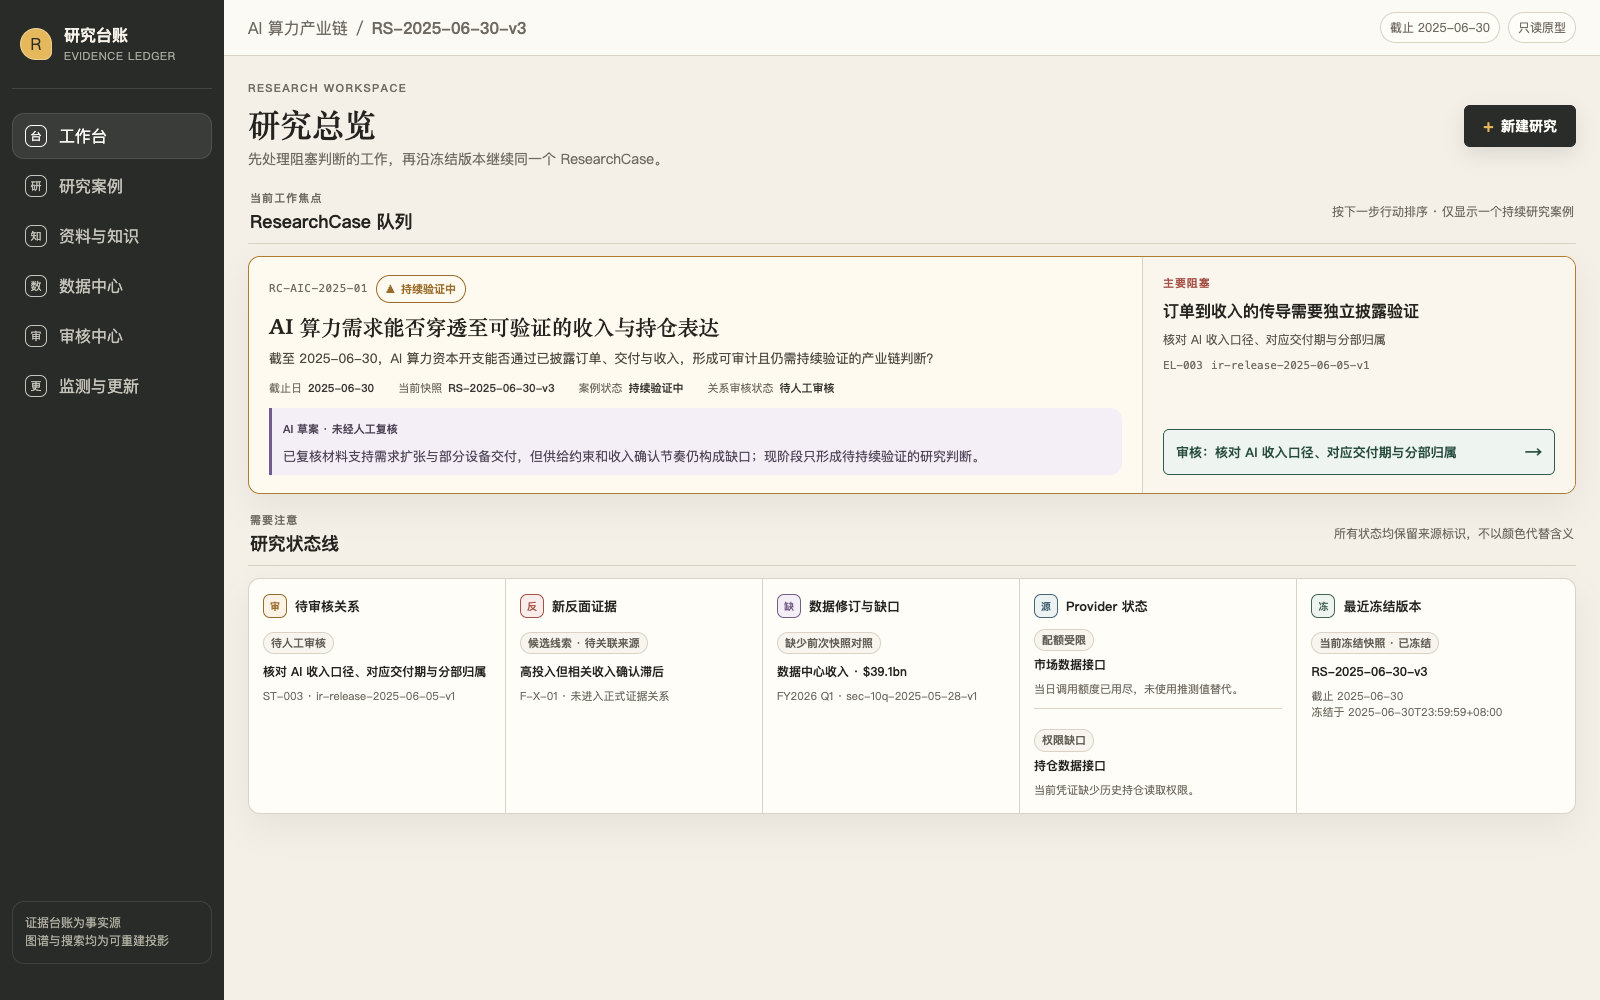
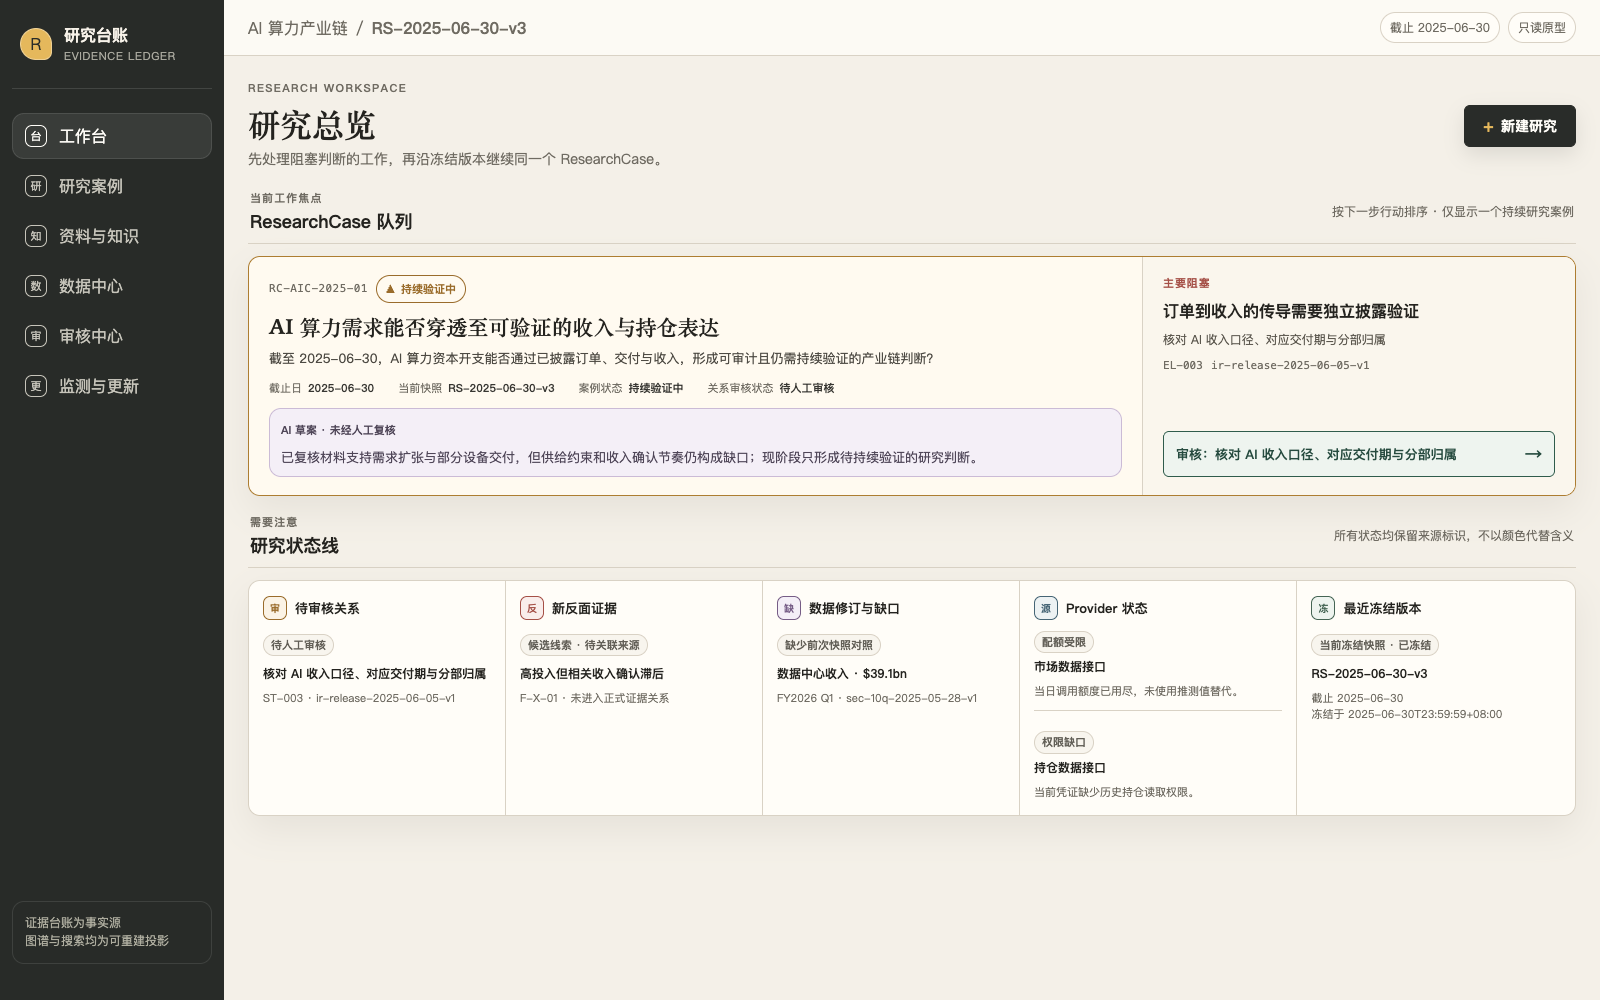
fix: harden mobile navigation and PNG capture

Changed region(s): [[0.1562, 0.403, 1.0, 0.806], [0.7188, 0.434, 0.9688, 0.496], [0.9062, 0.713, 0.9375, 0.744]]

diff --git a/prototype/ui/styles.css b/prototype/ui/styles.css
@@ -16,6 +16,9 @@
   --nav-note: #aead9f;
   --brand-accent: #e5b85c;
   --action-surface: #292c29;
+  --action-hover: #3a3e39;
+  --action-active: #171917;
+  --focus-ring: #765d86;
   --body-strong: #4d4a43;
   --fact-strong: #373632;
   --decision-surface: #faf6ed;
@@ -25,8 +28,11 @@
   --next-action-border: #2f5c4c;
   --next-action-text: #264b3f;
   --next-action-surface: #eef4ef;
+  --next-action-hover: #e2eee6;
+  --next-action-active: #d5e5dc;
   --assessment-text: #4f4658;
   --assessment-surface: #f4eff7;
+  --assessment-border: #cbbbd6;
   --warning-surface: #fbf3e5;
   --contradict-surface: #f9edeb;
   --gap-accent: #765d86;
@@ -187,6 +193,10 @@ a {
   backdrop-filter: blur(10px);
 }
 
+.mobile-nav {
+  display: none;
+}
+
 .breadcrumbs,
 .utility-actions,
 .meta-row,
@@ -291,6 +301,20 @@ a {
   color: var(--brand-accent);
   font-size: 18px;
   line-height: 1;
+}
+
+.primary-action:hover {
+  background: var(--action-hover);
+}
+
+.primary-action:active {
+  background: var(--action-active);
+  transform: translateY(1px);
+}
+
+.primary-action:focus-visible {
+  outline: 3px solid var(--focus-ring);
+  outline-offset: 3px;
 }
 
 .queue-section,
@@ -476,6 +500,20 @@ a {
   font-size: 17px;
 }
 
+.next-action:hover {
+  background: var(--next-action-hover);
+}
+
+.next-action:active {
+  background: var(--next-action-active);
+  transform: translateY(1px);
+}
+
+.next-action:focus-visible {
+  outline: 3px solid var(--focus-ring);
+  outline-offset: 3px;
+}
+
 .paper-card {
   min-width: 0;
   padding: var(--space-5);
@@ -556,8 +594,8 @@ a {
 .assessment {
   margin-top: var(--space-5);
   padding: var(--space-4);
-  border-left: 3px solid var(--state-ai-draft);
-  border-radius: 0 var(--radius-md) var(--radius-md) 0;
+  border: 1px solid var(--assessment-border);
+  border-radius: var(--radius-md);
   color: var(--assessment-text);
   background: var(--assessment-surface);
   line-height: 1.65;
@@ -729,7 +767,7 @@ a {
 @media (max-width: 600px) {
   .app-shell {
     grid-template-columns: minmax(0, 1fr);
-    grid-template-rows: 48px minmax(0, 1fr);
+    grid-template-rows: 48px auto minmax(0, 1fr);
     width: 100%;
   }
 
@@ -740,6 +778,10 @@ a {
   .utility-header,
   .work-area {
     grid-column: 1;
+  }
+
+  .work-area {
+    grid-row: 3;
   }
 
   .utility-header {
@@ -759,6 +801,58 @@ a {
 
   .utility-actions {
     display: none;
+  }
+
+  .mobile-nav {
+    display: block;
+    grid-column: 1;
+    grid-row: 2;
+    min-width: 0;
+    padding: 8px var(--space-4);
+    border-bottom: 1px solid var(--border);
+    background: var(--paper);
+  }
+
+  .mobile-nav summary {
+    padding: 8px 10px;
+    border: 1px solid var(--border);
+    border-radius: var(--radius-sm);
+    color: var(--ink);
+    font-size: 13px;
+    font-weight: 750;
+    cursor: pointer;
+    background: var(--status-surface);
+  }
+
+  .mobile-nav summary:focus-visible {
+    outline: 3px solid var(--focus-ring);
+    outline-offset: 2px;
+  }
+
+  .mobile-nav-links {
+    display: grid;
+    grid-template-columns: repeat(2, minmax(0, 1fr));
+    gap: var(--space-2);
+    min-width: 0;
+    padding: var(--space-3) 0 var(--space-1);
+  }
+
+  .mobile-nav .nav-link {
+    padding: 8px;
+    border-color: var(--border);
+    color: var(--ink);
+    background: var(--paper);
+  }
+
+  .mobile-nav .nav-link[aria-current="page"] {
+    border-color: var(--selected-border);
+    color: var(--ink);
+    background: var(--selected-surface);
+  }
+
+  .mobile-nav .nav-link:focus-visible {
+    outline: 3px solid var(--focus-ring);
+    outline-offset: 1px;
   }
 
   .work-area {

diff --git a/prototype/ui/app.js b/prototype/ui/app.js
@@ -160,6 +160,15 @@
     `;
   }
 
+  function renderNavLinks(activeNav) {
+    return NAV_ITEMS.map((item) => `
+      <a class="nav-link" href="?screen=${escapeHTML(item.screen)}"${item.screen === activeNav ? ' aria-current="page"' : ""}>
+        <span class="nav-icon" aria-hidden="true">${escapeHTML(item.icon)}</span>
+        <span>${escapeHTML(item.label)}</span>
+      </a>
+    `).join("");
+  }
+
   function renderOverview() {
     const view = buildOverviewViewModel(data);
     const activeCase = view.case;
@@ -315,12 +324,7 @@
             <div><strong>研究台账</strong><small>EVIDENCE LEDGER</small></div>
           </div>
           <nav class="nav-list">
-            ${NAV_ITEMS.map((item) => `
-              <a class="nav-link" href="?screen=${escapeHTML(item.screen)}"${item.screen === activeNav ? ' aria-current="page"' : ""}>
-                <span class="nav-icon" aria-hidden="true">${escapeHTML(item.icon)}</span>
-                <span>${escapeHTML(item.label)}</span>
-              </a>
-            `).join("")}
+            ${renderNavLinks(activeNav)}
           </nav>
           <p class="nav-note">证据台账为事实源<br>图谱与搜索均为可重建投影</p>
         </aside>
@@ -328,6 +332,12 @@
           <div class="breadcrumbs"><span>AI 算力产业链</span><span aria-hidden="true">/</span><strong>${escapeHTML(data.case.snapshotId)}</strong></div>
           <div class="utility-actions"><span class="utility-pill">截止 ${escapeHTML(data.case.cutoff)}</span><span class="utility-pill">只读原型</span></div>
         </header>
+        <details class="mobile-nav">
+          <summary>导航</summary>
+          <nav class="mobile-nav-links" aria-label="移动端主导航">
+            ${renderNavLinks(activeNav)}
+          </nav>
+        </details>
         <div class="work-area">${SCREEN_RENDERERS[screen]()}</div>
       </div>
     `;

diff --git a/prototype/ui/README.md b/prototype/ui/README.md
@@ -49,7 +49,7 @@ node prototype/ui/capture.mjs --screens overview
 
 Every image capture uses the fixed viewport rather than a full-page screenshot. Capture fails before writing if document `scrollWidth` exceeds `1600` or `scrollHeight` exceeds `1000`; content is never silently clipped. The resulting PNG buffer is accepted only when its IHDR dimensions are exactly `1600 × 1000`.
 
-Before replacing a mapped final image, capture validates the complete PNG buffer and its dimensions. It then writes a validated temporary sibling and uses an atomic rename over the final target; a failed write or rename leaves the existing final unchanged and removes the temporary file.
+Before replacing a mapped final image, capture parses every PNG chunk to exact EOF, checks each chunk's CRC32, requires the complete IHDR/IDAT/IEND structure, validates the IDAT zlib stream, and checks decoded non-interlaced scanline length and filter bytes. It then writes a validated temporary sibling and uses an atomic rename over the final target; a failed validation, write, or rename leaves the existing final unchanged and removes the temporary file.
 
 ## Generated-artifact rule
 
